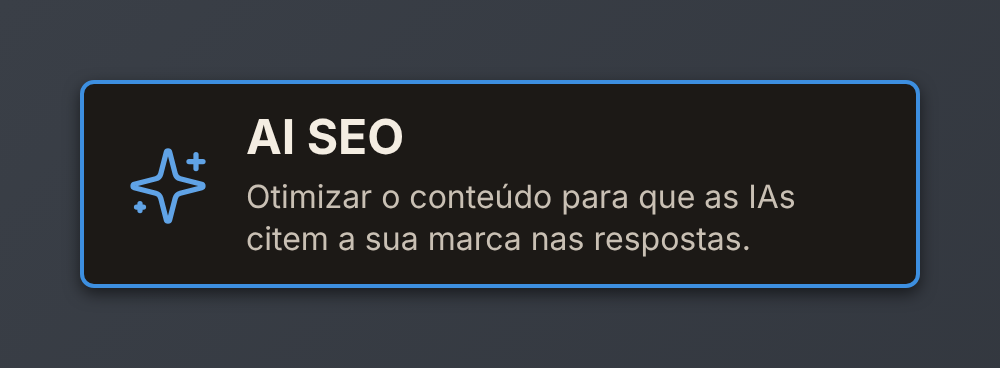
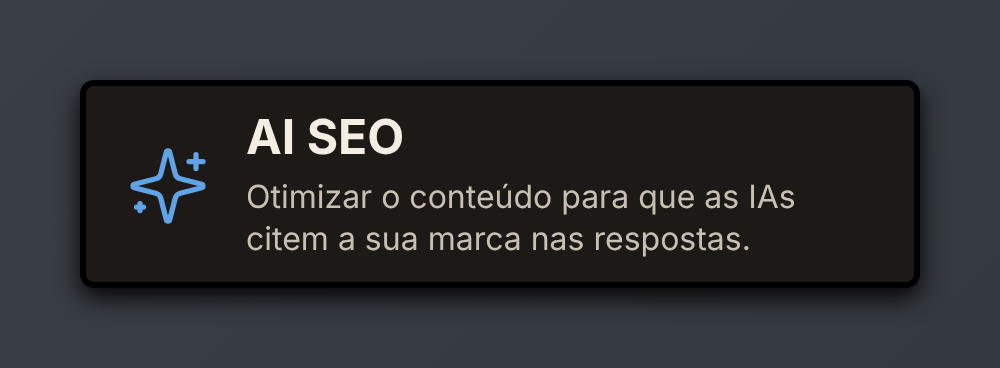
feat(components): term-callout black border and a stronger shadow (Tainan TG 32881) (#141)
Border brand 2 px -> black 3 px (padding trimmed so the box stays 420x125), shadow 0 3px 8px .55 -> 0 5px 12px .92. Same look as internal-skills callout_card.py (#472). Previews regenerated for 4 themes.

Changed region(s): [[0.062, 0.2092, 0.93, 0.8071]]

diff --git a/components/term-callout/component.css b/components/term-callout/component.css
@@ -8,11 +8,11 @@
   gap: 12px;
   box-sizing: border-box;
   max-width: 420px;
-  padding: 13px 15px 12px; /* callout_card.py pads 15 17 14, but draws its 2 px border inside */
+  padding: 12px 14px 11px; /* callout_card.py pads 15 17 14, but draws its 3 px border inside */
   background: var(--s-surface-raised, #1a1714);
-  border: 2px solid var(--s-brand-solid, #e07a4a);
+  border: 3px solid #000; /* Tainan TG 32881: black border, the same in every theme */
   border-radius: 7px;
-  box-shadow: 0 3px 8px rgba(0, 0, 0, 0.55);
+  box-shadow: 0 5px 12px rgba(0, 0, 0, 0.92); /* strong shadow, = callout_card.py SHADOW_* */
   font-family: var(--s-font-body, "Inter", sans-serif);
 }
 
